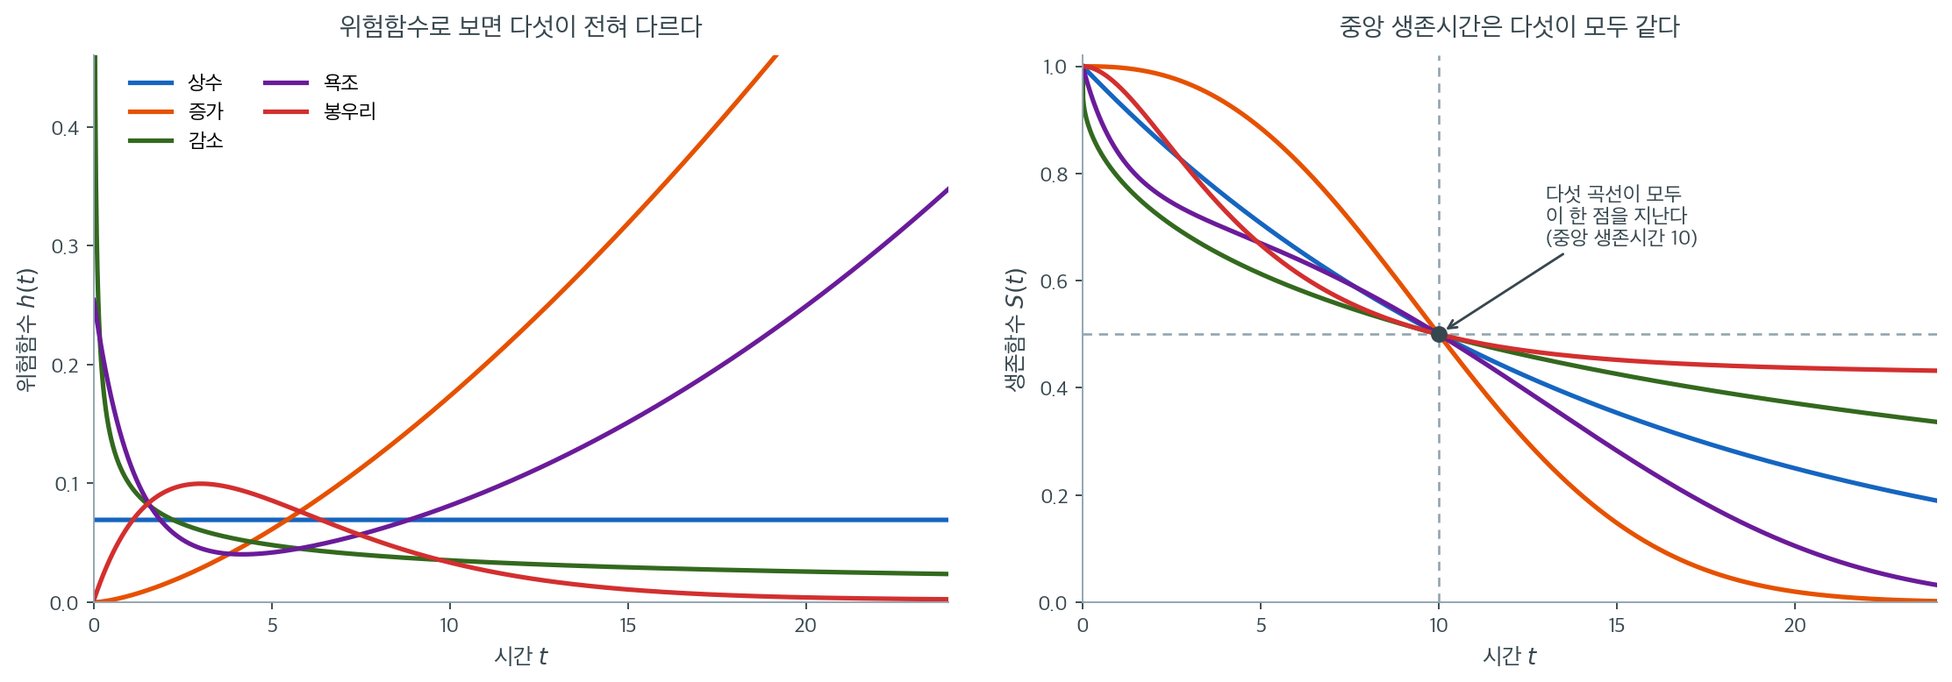
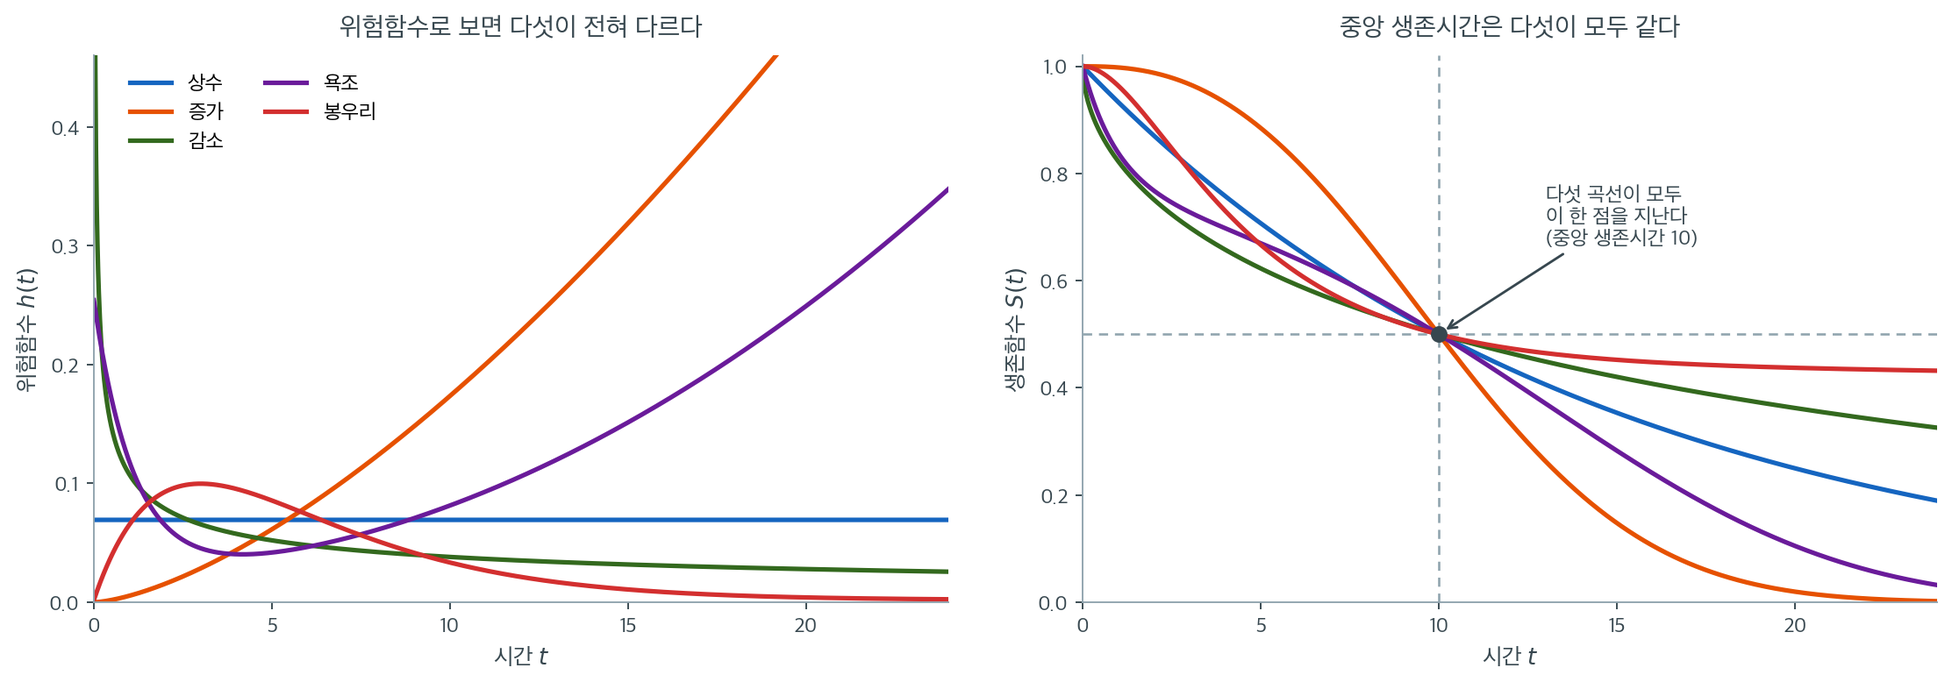
fix(ch21): 보고만 해 두었던 항목을 마무리한다
둘째 정독 패스가 고치지 않고 남긴 항목을 하나씩 판정해 끝냈다. 이미 닫힌 것과 보고가
틀린 것은 건드리지 않았고, 펜스를 고친 쪽은 실제로 돌린 출력을 붙여 verify_outputs 로
맞췄다. 그림을 다시 그린 것은 스크립트와 함께 담았다. 바깥 사실은 확인한 출처로만 고쳤다.

diff --git a/scripts/make_ch21_introduction_figures.py b/scripts/make_ch21_introduction_figures.py
@@ -254,9 +254,13 @@ def fig_hazard_shapes_same_median():
     med = 10.0
     ln2 = np.log(2.0)
 
-    def scale_to_median(h_raw):
-        """H(10) = ln 2 가 되도록 위험함수를 상수배 한다."""
-        H_raw = np.concatenate([[0.0], np.cumsum(np.diff(tg) * h_raw[:-1])])
+    def scale_to_median(h_raw, H_raw=None):
+        """H(10) = ln 2 가 되도록 위험함수를 상수배 한다.
+
+        t = 0 에서 발산하는 위험(감소형)은 격자 합이 H 를 부풀리므로 닫힌 꼴의 H 를 받는다.
+        """
+        if H_raw is None:
+            H_raw = np.concatenate([[0.0], np.cumsum(np.diff(tg) * h_raw[:-1])])
         H_at_med = np.interp(med, tg, H_raw)
         c = ln2 / H_at_med
         h = c * h_raw
@@ -279,8 +283,9 @@ def fig_hazard_shapes_same_median():
     axH, axS = axes
 
     at4, at10 = [], []
+    exact_H = {"감소": tg ** 0.55 / 0.55}       # ∫ t^(-0.45) dt
     for name, col, raw in shapes:
-        h, H = scale_to_median(raw)
+        h, H = scale_to_median(raw, exact_H.get(name))
         S = np.exp(-H)
         axH.plot(tg, h, color=col, lw=2.2, label=name)
         axS.plot(tg, S, color=col, lw=2.2, label=name)

diff --git a/docs/ch21/comparison/model_comparison.md b/docs/ch21/comparison/model_comparison.md
@@ -148,7 +148,9 @@ $n = 30$에서는 지수 모형($0.098$)이 카플란–마이어($0.104$)보다
 **어디까지 셋이 같고 어디서부터 갈라지는지**가 분명해진다. 그리고 갈라지는 자리가
 시스템에서 가장 조용히 틀리는 자리다.
 
-같은 자료에 셋을 모두 적합했다. 참 분포는 와이불이고 관측 창은 $24$ 개월이다.
+같은 자료에 셋을 모두 적합했다. 자료는 공변량 $x$ 하나를 둔 와이불 비례위험 모형에서 만들었고
+관측 창은 $24$ 개월이다. 카플란–마이어가 재는 것은 $x$ 가 섞인 **주변** 생존이므로, 콕스와
+와이불의 곡선과 참값도 표본의 $x$ 에 대해 평균해 같은 양으로 맞췄다.
 
 ```python
 import numpy as np
@@ -156,7 +158,7 @@ from scipy.optimize import minimize
 
 rng = np.random.default_rng(37)
 N, HOR = 5000, 24.0                       # 24 개월만 관측한다
-K_TRUE, LAM = 1.6, 18.0                   # 참 분포는 와이불
+K_TRUE, LAM = 1.6, 18.0                   # x 가 주어지면 와이불
 x = rng.normal(size=N)
 T = LAM * rng.weibull(K_TRUE, N) * np.exp(-0.5 * x / K_TRUE)
 C = rng.uniform(0, HOR, N)
@@ -172,7 +174,7 @@ def nll(p):                                                # (나) 와이불
     return -float((d * (np.log(k / (lam * np.exp(-b * x / k))) + (k - 1) * np.log(z))
                    - z ** k).sum())
 pw = minimize(nll, [0.0, np.log(20), 0.0], method="BFGS").x
-k_hat, lam_hat = np.exp(pw[0]), np.exp(pw[1])
+k_hat, lam_hat, b_hat = np.exp(pw[0]), np.exp(pw[1]), pw[2]
 
 def coxnll(b):                                             # (다) 콕스 + 브레슬로
     e = x[o] * b
@@ -182,15 +184,17 @@ bc = minimize(coxnll, [0.0], method="BFGS").x[0]
 e = np.exp(x[o] * bc)
 H0 = np.cumsum(np.where(ds == 1, 1 / np.cumsum(e[::-1])[::-1], 0.0))
 
+# 카플란-마이어는 x 가 섞인 주변 생존을 잰다. 나머지 셋도 x 에 대해 평균해 같은 양으로 맞춘다
 print(f"사건 {n_times:,} 건 / {N:,} 명,  마지막 사건 {ts[ds==1].max():.1f} 개월")
 print(f"와이불 추정 k {k_hat:.3f} (참 {K_TRUE}),  lambda {lam_hat:.2f} (참 {LAM})\n")
 print("   시점(개월)   카플란-마이어   콕스+브레슬로   와이불    참값")
 for q in (6, 12, 24, 36, 60):
     i = np.searchsorted(ts, q, side="right") - 1
     km = S_km[i] if q <= ts[-1] else S_km[-1]
-    cox = np.exp(-H0[min(i, len(H0) - 1)])
-    print(f"{q:>11}{km:>15.4f}{cox:>15.4f}"
-          f"{np.exp(-(q / lam_hat) ** k_hat):>10.4f}{np.exp(-(q / LAM) ** K_TRUE):>9.4f}")
+    cox = np.exp(-H0[min(i, len(H0) - 1)] * np.exp(bc * x)).mean()
+    wei = np.exp(-(q / lam_hat) ** k_hat * np.exp(b_hat * x)).mean()
+    true = np.exp(-(q / LAM) ** K_TRUE * np.exp(0.5 * x)).mean()
+    print(f"{q:>11}{km:>15.4f}{cox:>15.4f}{wei:>10.4f}{true:>9.4f}")
 print(f"\n곡선을 적는 데 드는 수:  카플란-마이어 {n_times:,} 쌍,  "
       f"콕스 계수 1 + 기저 {n_times:,},  와이불 모수 2 + 계수 1")
 ```
@@ -202,11 +206,11 @@ print(f"\n곡선을 적는 데 드는 수:  카플란-마이어 {n_times:,} 쌍,
 와이불 추정 k 1.698 (참 1.6),  lambda 17.40 (참 18.0)
 
    시점(개월)   카플란-마이어   콕스+브레슬로   와이불    참값
-          6         0.8386         0.8527    0.8487   0.8416
-         12         0.5778         0.5914    0.5874   0.5929
-         24         0.2310         0.2042    0.1780   0.2050
-         36         0.2310         0.2042    0.0322   0.0482
-         60         0.2310         0.2042    0.0003   0.0010
+          6         0.8386         0.8390    0.8348   0.8278
+         12         0.5778         0.5779    0.5741   0.5798
+         24         0.2310         0.2302    0.2070   0.2302
+         36         0.2310         0.2302    0.0647   0.0823
+         60         0.2310         0.2302    0.0058   0.0101
 
 곡선을 적는 데 드는 수:  카플란-마이어 2,029 쌍,  콕스 계수 1 + 기저 2,029,  와이불 모수 2 + 계수 1
 ```
@@ -216,14 +220,15 @@ print(f"\n곡선을 적는 데 드는 수:  카플란-마이어 {n_times:,} 쌍,
 않으므로 분포 가정을 의심할 까닭이 없다.
 
 **창 밖에서 갈라진다.** $36$ 개월과 $60$ 개월에서 카플란–마이어는 $0.2310$ 을, 콕스는
-$0.2042$ 를 그대로 반복한다. 두 추정량은 **마지막 사건 이후를 정의하지 않으므로 곡선이
+$0.2302$ 를 그대로 반복한다. 두 추정량은 **마지막 사건 이후를 정의하지 않으므로 곡선이
 거기서 멈추는데**, 시스템은 그 마지막 값을 꺼내 돌려준다. 오류가 나지 않는다는 것이
 문제다 — 「$5$ 년 생존확률 $0.23$」이라는 **그럴듯한 수**가 조용히 나간다. 참값은
-$0.0010$ 이다.
+$0.0101$ 이다.
 
-**와이불은 말을 하지만 정확하지는 않다.** $36$ 개월에서 $0.0322$ 대 참값 $0.0482$,
-$60$ 개월에서 $0.0003$ 대 $0.0010$ 이다. 방향은 맞고 자릿수도 맞지만 **창 밖의 값은
-자료가 아니라 가정이 만든 것**이다. 이 보기에서는 참 분포가 정말 와이불이었는데도 그렇다.
+**와이불은 말을 하지만 정확하지는 않다.** $36$ 개월에서 $0.0647$ 대 참값 $0.0823$,
+$60$ 개월에서 $0.0058$ 대 $0.0101$ 이다. 방향은 맞지만 $60$ 개월에서는 참값의 절반 남짓이다.
+**창 밖의 값은 자료가 아니라 가정이 만든 것**이다. 이 보기에서는 적합한 와이불 모형이
+자료를 만든 모형과 같은 꼴이었는데도 그렇다.
 
 마지막 줄이 실무의 차이를 더한다. 배포할 때 카플란–마이어는 사건 시각마다 한 쌍씩
 $2{,}029$ 쌍을, 콕스는 계수 하나에 **기저 곡선을 이루는 값 $2{,}029$ 개**를 함께 들고 다녀야 한다.

diff --git a/docs/ch21/introduction/survival_hazard_functions.md b/docs/ch21/introduction/survival_hazard_functions.md
@@ -233,11 +233,11 @@ for k in (1, 3, 6, 9, 12):
 
 다섯 위험함수를 각각 상수배 해서 $H(10) = \ln 2$가 되도록 맞추었다. $S(t) = e^{-H(t)}$이므로 다섯 모두 $S(10) = 0.5$이고, 오른쪽 그림에서 곡선 다섯 개가 한 점 $(10, 0.5)$에서 만나는 것이 그 결과다. **중앙 생존시간이라는 가장 흔한 요약값이 다섯 상황에서 똑같이 10개월로 보고된다는 뜻이다.** 상수 위험도 10, 마모되는 부품도 10, 초기 고장이 몰린 부품도 10이다.
 
-그런데 왼쪽을 보면 이 다섯이 같은 것은 그 한 점뿐이다. $t = 4$에서 위험은 봉우리형이 $0.095$, 상수가 $0.069$, 감소형이 $0.053$, 증가형이 $0.044$, 욕조형이 $0.040$이다. **가장 큰 값이 가장 작은 값의 두 배를 넘는다.** 4개월 시점의 부품 하나를 앞에 두고 "다음 한 달 안에 고장 날 가능성"을 물으면 답이 두 배 이상 갈리는데, 중앙값만으로는 어느 쪽인지 알 길이 없다.
+그런데 왼쪽을 보면 이 다섯이 같은 것은 그 한 점뿐이다. $t = 4$에서 위험은 봉우리형이 $0.095$, 상수가 $0.069$, 감소형이 $0.058$, 증가형이 $0.044$, 욕조형이 $0.040$이다. **가장 큰 값이 가장 작은 값의 두 배를 넘는다.** 4개월 시점의 부품 하나를 앞에 두고 "다음 한 달 안에 고장 날 가능성"을 물으면 답이 두 배 이상 갈리는데, 중앙값만으로는 어느 쪽인지 알 길이 없다.
 
 실무적 함의는 분명하다. **위험이 오르는 중인지 내리는 중인지가 의사결정을 바꾼다.** 증가 위험이면 수명이 다한 부품을 예방 교체하는 것이 합리적이지만, 감소 위험이면 오래 버틴 부품이야말로 가장 안전한 부품이므로 교체가 오히려 손해다. $S(t)$는 "지금까지 얼마나 살아남았나"라는 누적된 질문에 답하고, $h(t)$는 "지금 이 순간 어느 쪽으로 가고 있나"라는 질문에 답한다. 두 번째 질문의 답이 보통 더 쓸모 있다.
 
-한 가지 더 짚어 둘 것이 있다. 오른쪽의 다섯 곡선은 교차점 바깥에서는 서로 갈라진다. 예컨대 $t = 4$에서 증가형은 $S(4) = 0.932$로 아직 거의 아무도 사건을 겪지 않았지만 감소형은 $S(4) = 0.644$로 이미 셋 중 하나가 빠져나갔다. 그러니 생존곡선에서 모양을 읽어 내는 일이 불가능한 것은 아니다. 다만 **눈으로 기울기의 변화를 읽는 것보다 $-\ln \hat S(t)$를 그려 직선에서 벗어나는지 보는 편이 훨씬 확실하다.** 누적위험 $H(t) = -\ln S(t)$가 진단 도구로 쓰이는 이유가 그것이고, 21.2절의 넬슨–알렌 추정량이 바로 그 일을 한다.
+한 가지 더 짚어 둘 것이 있다. 오른쪽의 다섯 곡선은 교차점 바깥에서는 서로 갈라진다. 예컨대 $t = 4$에서 증가형은 $S(4) = 0.932$로 아직 거의 아무도 사건을 겪지 않았지만 감소형은 $S(4) = 0.658$로 이미 셋 중 하나가 빠져나갔다. 그러니 생존곡선에서 모양을 읽어 내는 일이 불가능한 것은 아니다. 다만 **눈으로 기울기의 변화를 읽는 것보다 $-\ln \hat S(t)$를 그려 직선에서 벗어나는지 보는 편이 훨씬 확실하다.** 누적위험 $H(t) = -\ln S(t)$가 진단 도구로 쓰이는 이유가 그것이고, 21.2절의 넬슨–알렌 추정량이 바로 그 일을 한다.
 
 <div class="storybox" markdown>
 

diff --git a/docs/ch21/nonparametric/kaplan_meier.md b/docs/ch21/nonparametric/kaplan_meier.md
@@ -460,7 +460,7 @@ print(f"\n해지 {int((c==1).sum()):,} 건, 결제 실패 {int((c==2).sum()):,} 
 ## 7. 로그순위 검정으로 두 곡선을 견주기
 
 두 집단의 곡선이 갈라져 보일 때 그것이 우연인지 묻는 검정이 **로그순위 검정**이다.
-가설, 기대 사건 수 $e_{1j} = d_j r_{1j}/r_j$, 검정통계량(test statistic), 그리고 가중 변형까지는
+가설, 기대 사건 수 $e_{1j} = d_j n_{1j}/n_j$, 검정통계량(test statistic), 그리고 가중 변형까지는
 [로그순위 검정](log_rank_test.md)이 다룬다. 여기서는 카플란–마이어 곡선과
 나란히 놓고 읽는 법만 본다.
 
@@ -976,16 +976,16 @@ print(f"\n해지 {int((c==1).sum()):,} 건, 결제 실패 {int((c==2).sum()):,} 
 식을 유도하라.
 
 $$
-v_j = \frac{r_{1j} \, r_{2j} \, d_j \, (r_j - d_j)}{r_j^2 \, (r_j - 1)}
+v_j = \frac{n_{1j} \, n_{2j} \, d_j \, (n_j - d_j)}{n_j^2 \, (n_j - 1)}
 $$
 
 </div>
 
 ??? success "풀이"
 
-    $H_0$ 아래에서 시점 $t_{(j)}$에 $r_j$명이 위험에 있고 그중 $r_{1j}$명이 집단 1에 속한다.
-    이 $r_j$명 중에서 $d_j$개의 사건이 일어난다. 집단 1의 사건 수 $d_{1j}$는 초기하분포를
-    따른다. 집단 1 소속 $r_{1j}$명을 포함한 $r_j$명의 풀에서 "사건" $d_j$개를 뽑는 것이다.
+    $H_0$ 아래에서 시점 $t_{(j)}$에 $n_j$명이 위험에 있고 그중 $n_{1j}$명이 집단 1에 속한다.
+    이 $n_j$명 중에서 $d_j$개의 사건이 일어난다. 집단 1의 사건 수 $d_{1j}$는 초기하분포를
+    따른다. 집단 1 소속 $n_{1j}$명을 포함한 $n_j$명의 풀에서 "사건" $d_j$개를 뽑는 것이다.
 
     초기하 확률변수 $X \sim \text{HG}(n, N, M)$(크기 $N$ 의 모집단에 성공 $M$ 개, 비복원으로
     $n$ 개를 뽑음)의 분산은
@@ -994,16 +994,16 @@ $$
     \text{Var}(X) = n \cdot \frac{M}{N} \cdot \frac{N - M}{N} \cdot \frac{N - n}{N - 1}
     $$
 
-    이다. $N = r_j$, $M = r_{1j}$, $n = d_j$를 대입하면
+    이다. $N = n_j$, $M = n_{1j}$, $n = d_j$를 대입하면
 
     $$
-    v_j = d_j \cdot \frac{r_{1j}}{r_j} \cdot \frac{r_j - r_{1j}}{r_j} \cdot \frac{r_j - d_j}{r_j - 1}
+    v_j = d_j \cdot \frac{n_{1j}}{n_j} \cdot \frac{n_j - n_{1j}}{n_j} \cdot \frac{n_j - d_j}{n_j - 1}
     $$
 
-    이고 $r_j - r_{1j} = r_{2j}$이므로
+    이고 $n_j - n_{1j} = n_{2j}$이므로
 
     $$
-    v_j = \frac{r_{1j} \, r_{2j} \, d_j \, (r_j - d_j)}{r_j^2 \, (r_j - 1)}
+    v_j = \frac{n_{1j} \, n_{2j} \, d_j \, (n_j - d_j)}{n_j^2 \, (n_j - 1)}
     $$
 
     $\square$

diff --git a/docs/ch21/parametric/mle_censored.md b/docs/ch21/parametric/mle_censored.md
@@ -61,7 +61,7 @@ $$
 
 절단으로 관측되었으면 기여가 $S(10) = e^{-10\lambda}$이고, 이 함수에는 **봉우리가 없다.** $\lambda$가 작을수록 단조 증가할 뿐이다. "적어도 10개월은 버텼다"는 진술은 $\lambda$가 너무 크지 않다는 상한만 말해 주고 하한은 전혀 말해 주지 않는다. 절단 관측이 정보를 **주기는 하되 한쪽으로만** 준다는 것이 이 두 곡선의 차이다. 앞의 쪽지에서 "절단된 관측치를 버리면 편향된다"고 한 것과 "절단만으로는 모수를 정할 수 없다"는 것이 동시에 참인 이유다.
 
-오른쪽은 그 결과다. 와이불 $k = 1.7$, $\lambda = 50$에서 $n = 300$을 뽑고 절단의 강도만 바꿔 가며 형상모수의 프로파일 로그가능도 $\ell(k) - \ell(\hat k)$를 그렸다. 절단율 $13\%$(사건 262건)에서는 곡선이 뾰족해 프로파일 95% 구간이 $(1.41,\ 1.69)$로 폭 $0.28$이다. 절단율 $70\%$(사건 90건)에서는 폭이 $0.54$로 두 배, 절단율 $95\%$(사건 15건)에서는 $(1.17,\ 2.70)$으로 폭이 $1.53$까지 부푼다. **마지막 경우는 "위험이 감소하거나 일정하다"($k \le 1$)만 겨우 배제할 뿐 그 이상 아무 말도 하지 못한다.**
+오른쪽은 그 결과다. 와이불 $k = 1.7$, $\lambda = 50$에서 $n = 300$을 뽑고 절단의 강도만 바꿔 가며 형상모수의 프로파일 로그가능도 $\ell(k) - \ell(\hat k)$를 그렸다. 절단율 $13\%$(사건 262건)에서는 곡선이 뾰족해 프로파일 95% 구간이 $(1.41,\ 1.69)$로 폭 $0.28$이다. 참값 $1.7$ 이 이 구간 바로 바깥에 있는데, 표본 하나의 95% 구간은 스무 번에 한 번꼴로 참값을 놓치므로 이상한 일이 아니다. 절단율 $70\%$(사건 90건)에서는 폭이 $0.54$로 두 배, 절단율 $95\%$(사건 15건)에서는 $(1.17,\ 2.70)$으로 폭이 $1.53$까지 부푼다. **마지막 경우는 "위험이 감소하거나 일정하다"($k \le 1$)만 겨우 배제할 뿐 그 이상 아무 말도 하지 못한다.**
 
 표본 크기 $n = 300$은 세 경우 모두 같았다는 점이 핵심이다. 달라진 것은 사건 수뿐이다. 왼쪽 그림이 그 이유를 이미 말했다. 봉우리를 만드는 것은 $\delta_i \ln h(t_i)$ 항이고, 절단 관측은 그 항을 기여하지 않는다. 그래서 생존분석에서는 **표본 크기가 아니라 사건 수를 세야 하며**, 임상시험 설계가 "환자 몇 명"이 아니라 "사건 몇 건"을 목표로 잡는 것도 이 때문이다.
 

diff --git a/docs/ch21/nonparametric/log_rank_test.md b/docs/ch21/nonparametric/log_rank_test.md
@@ -124,11 +124,14 @@ $\chi^2_{\text{LR}}$ 은 $O_1$ 과 $E_1$ 이 벌어질수록 커지는데 **그 
 합계: $O_A = 3$, $E_A = 4.156$, $V_A = 1.487$.
 
 집단 A의 관측 사건 수(3건)가 기댓값(4.156)보다 적어 집단 A의 생존이 더 나을 가능성을 시사한다.
-검정통계량은
+로그순위 검정통계량과 p 값을 구하라.
 
 </div>
 
 ??? success "풀이"
+
+    검정통계량은
+
     $$
     \chi^2_{\text{LR}} = \frac{(3 - 4.156)^2}{1.487} = \frac{1.3353}{1.487} = 0.898
     $$
@@ -666,7 +669,7 @@ $V_1$의 공식에 등장하는 $n_j - 1$이 어디에서 오는지 설명하라
 - **각 사건시점에서 기대 사망 수와 관측 사망 수를 비교한다.** 시점마다 $2\times2$ 표를 만들어 합산하는 구조이며, 11장의 맨텔–헨첼 방식과 같은 계보다.
 - **$H_0$ 은 두 생존함수가 모든 시점에서 같다는 것**이며, 통계량은 근사적으로 $\chi^2_{G-1}$ 을 따른다($G$ 는 집단 수이고, 두 집단이면 자유도 $1$ 이다).
 - **비례위험 대립가설에서 검정력이 가장 높다.** 두 위험함수의 비가 일정하면 최적이며, **곡선이 교차하면 검정력이 크게 떨어진다.** 차이가 서로 상쇄되기 때문이다.
-- **모든 시점을 동등하게 본다.** 초기 차이에 더 무게를 주고 싶으면 윌콕슨(브레슬로) 가중을 쓴다.
+- **모든 시점을 동등하게 본다.** 초기 차이에 더 무게를 주고 싶으면 윌콕슨(게한–브레슬로) 가중을 쓴다.
 - **곡선을 함께 보여야 한다.** 검정은 "다르다"까지만 말하고 **어떻게** 다른지는 카플란–마이어 그림이 말한다.
 
 다음 절 **[생존곡선의 신뢰구간](survival_ci.md)**으로 넘어간다.

diff --git a/docs/ch21/nonparametric/survival_ci.md b/docs/ch21/nonparametric/survival_ci.md
@@ -226,7 +226,7 @@ $$
 
 오른쪽은 표본을 $n = 200$으로 늘리고 로그–로그 신뢰대만 그린 것이다. 띠의 **절대 폭**은 $t = 8$에서 $0.138$, $t \approx 20$에서 $0.128$, $t \approx 31$에서 $0.113$으로 오히려 줄어드는 것처럼 보인다. 그러나 이는 착시다. 같은 시점의 $\hat S$가 $0.590$, $0.211$, $0.125$로 떨어졌으므로, **추정치 대비 폭**은 $23\% \to 61\% \to 90\%$로 네 배 가까이 부푼다. 위험집합이 $108$명에서 $30$명, $13$명으로 줄어든 결과이며, 그린우드 합의 각 항 $d_j/[n_j(n_j-d_j)]$가 $n_j$ 감소에 제곱으로 반응하기 때문이다.
 
-실무적 교훈은 짧다. **곡선의 오른쪽 끝을 근거로 결론 내리지 말라.** "5년 생존율이 12.5%"라는 문장은 그 뒤에 "(95% 신뢰구간 7%--20%)"를 붙이는 순간 전혀 다른 문장이 된다. 그리고 두 집단의 곡선을 비교할 때 꼬리에서 벌어진 간격은 대개 띠 안에서 설명되는 차이다. 같은 절의 [로그순위 검정](log_rank_test.md)이 시점별 눈대중이 아니라 전 구간 합산으로 판단하는 것도 같은 이유에서다.
+실무적 교훈은 짧다. **곡선의 오른쪽 끝을 근거로 결론 내리지 말라.** "5년 생존율이 12.5%"라는 문장은 그 뒤에 "(95% 신뢰구간 7%–20%)"를 붙이는 순간 전혀 다른 문장이 된다. 그리고 두 집단의 곡선을 비교할 때 꼬리에서 벌어진 간격은 대개 띠 안에서 설명되는 차이다. 같은 절의 [로그순위 검정](log_rank_test.md)이 시점별 눈대중이 아니라 전 구간 합산으로 판단하는 것도 같은 이유에서다.
 
 ---
 

diff --git a/docs/ch21/nonparametric/nelson_aalen.md b/docs/ch21/nonparametric/nelson_aalen.md
@@ -174,7 +174,8 @@ $t = 5$에서 넬슨–알렌 생존 추정치는
 
 - **누적위험 그림.** $\hat{H}(t)$를 $t$에 대해 그리면 위험 구조가 드러난다. 직선이면 상수
   위험(지수 모형)을, 아래로 볼록하면(위로 휘어 오르면) 증가 위험(와이불 $k > 1$)을 시사한다.
-- **소표본.** 소표본에서 넬슨–알렌 추정량의 편향이 카플란–마이어보다 조금 작다.
+- **소표본.** 같은 $H(t)$ 를 추정할 때, 소표본에서 넬슨–알렌 추정량의 편향이 카플란–마이어로
+  만든 $-\ln \hat S_{\text{KM}}(t)$ 보다 조금 작다. 비교는 같은 추정 대상끼리 한 것이다.
 - **구성 요소.** 넬슨–알렌 추정량은 콕스 모형(21.4절)에서 기저 누적위험에 대한 브레슬로
   추정량에 등장한다.
 
@@ -411,7 +412,7 @@ $\ln \hat H(t)$ 대 $\ln t$ 그림이 와이불 진단에 쓰이는가?
 | 추정 대상 | $H(t)$ | $S(t)$ |
 | 공식 | $\sum d_j / n_j$ | $\prod (1 - d_j / n_j)$ |
 | 치역 | $[0, \infty)$ | $[0, 1]$ |
-| 편향(소표본) | 조금 작음 | 조금 큼 |
+| $H(t)$ 추정의 편향(소표본) | 조금 작음 | $-\ln \hat{S}_{\text{KM}}$ 으로 쓰면 조금 큼 |
 | 대표본 동등성 | $\hat{H} \approx -\ln \hat{S}_{\text{KM}}$ | $\hat{S}_{\text{KM}} \approx \exp(-\hat{H})$ |
 
 다음 쪽 **[로그순위 검정](log_rank_test.md)**으로 넘어간다. 여기까지는 곡선을 **추정**했고, 거기서는 집단마다 얻은 곡선이 **서로 다른지**를 검정한다.

diff --git a/docs/ch21/parametric/weibull.md b/docs/ch21/parametric/weibull.md
@@ -566,7 +566,7 @@ $$
 h(t)=\frac k\lambda\left(\frac t\lambda\right)^{k-1}
 $$
 
-- **$k<1$ 감소, $k=1$ 일정(지수), $k>1$ 증가.** 4장에서 본 그대로이며, 하나의 모수가 초기 고장·무기억·마모를 모두 담는다.
+- **$k<1$ 감소, $k=1$ 일정(지수), $k>1$ 증가.** 4장 [지수분포](../../ch04/continuous_distributions/exponential.md)가 연습문제에서 짧게 견준 그대로이며, 하나의 모수가 초기 고장·무기억·마모를 모두 담는다.
 - **$k=1$ 에서 지수 모형이 특수한 경우로 나온다.** 그래서 두 모형을 가능도비로 비교해 $k=1$ 을 검정할 수 있다.
 - **누적위험이 로그–로그에서 직선이다.** $\log H(t)=k\log t-k\log\lambda$ 이므로, $\log(-\log\hat S)$ 대 $\log t$ 그림이 직선이면 와이불이 맞고 **기울기가 $\hat k$ 의 눈대중 추정**이 된다.
 - **비례위험과 가속실패시간 양쪽으로 읽힌다.** 와이불은 두 틀 모두에 속하는 유일한 분포이며, 그래서 해석이 유연하다.

diff --git a/docs/ch21/comparison/model_selection.md b/docs/ch21/comparison/model_selection.md
@@ -306,8 +306,8 @@ IBS가 낮을수록 전체 예측 성능이 좋다.
     **(c)** 액면 그대로는 와이불($C = 0.74$)이 콕스($C = 0.72$)보다 조금 낫다. **그러나 이
     차이만으로 결론을 내려서는 안 된다.**
 
-    - **불확실성이 제시되지 않았다.** C-지수에도 표집 변동이 있다. 사건 120건, 사용 가능한 쌍이
-      수천 개인 자료에서 C-지수의 표준오차는 대략 $0.02$--$0.03$이다. $0.02$ 차이는 표준오차
+    - **불확실성이 제시되지 않았다.** C-지수에도 표집 변동이 있다. 대상 200명에 사건
+      120건인 자료에서 C-지수의 표준오차는 대략 $0.02$--$0.03$이다. $0.02$ 차이는 표준오차
       하나에도 못 미친다.
     - **같은 자료에서 계산했다.** 두 모형 모두 이 자료에 적합되었으므로 C-지수가 낙관적으로
       편향되어 있다. 모형이 유연할수록 편향이 크다. 공정한 비교에는 교차검증(cross-validation)이나 별도의

diff --git a/docs/ch21/cox/diagnostics.md b/docs/ch21/cox/diagnostics.md
@@ -348,7 +348,7 @@ $$
         sorted_r = np.sort(residuals)
         n = len(sorted_r)
 
-        # 잔차의 누적위험함수를 넬슨–알렌 방식으로 추정한다.
+        # i 번째 점에 지수(1) 의 i/(n+1) 분위수를 준다(넬슨–알렌 추정이 아니다 — 위 (1) 참고).
         # 분모에 n+1 을 쓰는 것은 마지막 점에서 로그가 발산하는 것을 피하기 위함이다.
         H_na = -np.log(1 - np.arange(1, n + 1) / (n + 1))
 
